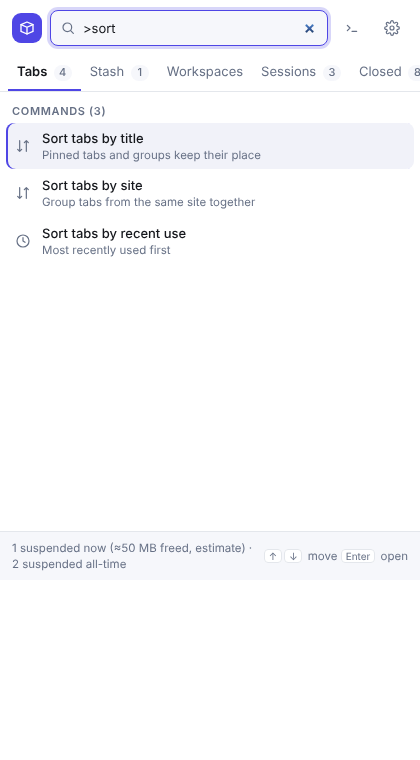
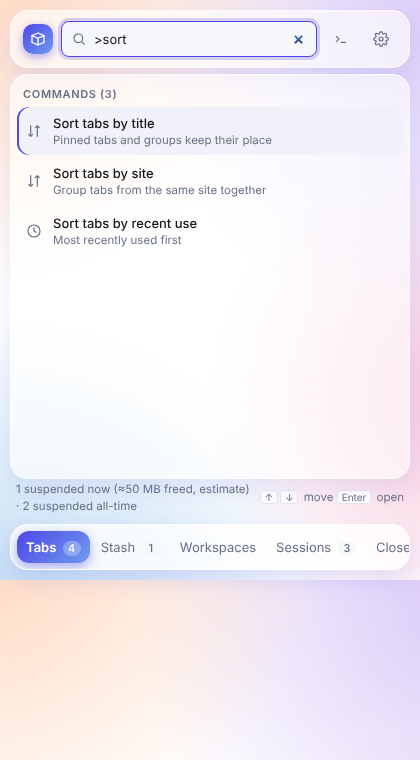
Restyle popup with a glass-morphism aurora theme
Frosted-glass panels, gradient accents, a bottom-anchored view nav and
entrance/hover motion, layered on the existing DOM and tokens (both
themes, reduced-motion respected). Screenshots refreshed to match.

Changed region(s): [[0.0, 0.0, 1.0, 1.0]]

diff --git a/src/entrypoints/popup/style.css b/src/entrypoints/popup/style.css
@@ -1,59 +1,114 @@
 :root {
   --bg: #ffffff; --surface: #f6f7fb; --fg: #16181d; --muted: #667085; --line: #e4e7ec;
-  --accent: #4f46e5; --accent-fg: #ffffff; --accent-soft: #eef0ff; --hover: #f1f2f9; --danger: #c62828; --ok: #188038;
-  --radius: 8px;
+  --accent: #4f46e5; --accent-2: #6d9bf0; --accent-fg: #ffffff; --accent-soft: #eef0ff; --hover: #f1f2f9; --danger: #c62828; --ok: #188038;
+  --radius: 8px; --radius-lg: 18px;
+  --glass: rgba(255, 255, 255, .62); --glass-strong: rgba(255, 255, 255, .78); --glass-border: rgba(255, 255, 255, .7);
+  --blob1: #ffd4b8; --blob2: #d8c8f7; --blob3: #b9d8f2; --blob4: #f7c6d9;
+  --ease: cubic-bezier(.22, 1, .36, 1);
 }
 @media (prefers-color-scheme: dark) {
   :root:not([data-theme='light']) {
     --bg: #15161a; --surface: #1d1e24; --fg: #ececf1; --muted: #9aa1b0; --line: #2b2d35;
-    --accent: #8b95ff; --accent-fg: #15161a; --accent-soft: #24264a; --hover: #22232b; --danger: #f87171; --ok: #6dd58c;
+    --accent: #8b95ff; --accent-2: #7aa7ff; --accent-fg: #15161a; --accent-soft: #24264a; --hover: #22232b; --danger: #f87171; --ok: #6dd58c;
+    --glass: rgba(32, 34, 44, .58); --glass-strong: rgba(32, 34, 44, .76); --glass-border: rgba(255, 255, 255, .08);
+    --blob1: #4a3626; --blob2: #342a4d; --blob3: #1f3b4a; --blob4: #432639;
   }
 }
 :root[data-theme='dark'] {
   --bg: #15161a; --surface: #1d1e24; --fg: #ececf1; --muted: #9aa1b0; --line: #2b2d35;
-  --accent: #8b95ff; --accent-fg: #15161a; --accent-soft: #24264a; --hover: #22232b; --danger: #f87171; --ok: #6dd58c;
+  --accent: #8b95ff; --accent-2: #7aa7ff; --accent-fg: #15161a; --accent-soft: #24264a; --hover: #22232b; --danger: #f87171; --ok: #6dd58c;
+  --glass: rgba(32, 34, 44, .58); --glass-strong: rgba(32, 34, 44, .76); --glass-border: rgba(255, 255, 255, .08);
+  --blob1: #4a3626; --blob2: #342a4d; --blob3: #1f3b4a; --blob4: #432639;
 }
 * { box-sizing: border-box; }
 html { color-scheme: light dark; }
 html[data-theme='light'] { color-scheme: light; }
 html[data-theme='dark'] { color-scheme: dark; }
+@media (prefers-reduced-motion: reduce) {
+  *, *::before, *::after { animation-duration: .001ms !important; animation-iteration-count: 1 !important; transition-duration: .001ms !important; scroll-behavior: auto !important; }
+}
+
+@keyframes rise { from { opacity: 0; transform: translateY(6px); } to { opacity: 1; transform: translateY(0); } }
+@keyframes popIn { from { opacity: 0; transform: scale(.94) translateY(4px); } to { opacity: 1; transform: scale(1) translateY(0); } }
+@keyframes toastIn { from { opacity: 0; transform: translateY(8px) scale(.98); } to { opacity: 1; transform: translateY(0) scale(1); } }
+@keyframes overlayIn { from { opacity: 0; } to { opacity: 1; } }
+@keyframes dialogIn { from { opacity: 0; transform: scale(.92) translateY(10px); } to { opacity: 1; transform: scale(1) translateY(0); } }
+@keyframes pulseGlow { 0%, 100% { box-shadow: 0 2px 10px color-mix(in srgb, var(--accent) 35%, transparent); } 50% { box-shadow: 0 2px 18px color-mix(in srgb, var(--accent) 55%, transparent); } }
+
 /* Chrome sizes a popup to its content, capped at 800x600. A fixed box keeps it from jumping between views. */
 body {
   margin: 0; width: 420px; height: 580px; font: 13px/1.4 system-ui, -apple-system, 'Segoe UI', sans-serif;
-  background: var(--bg); color: var(--fg); display: flex; flex-direction: column; overflow: hidden;
+  background-color: var(--bg);
+  background-image:
+    radial-gradient(circle at -8% -12%, var(--blob1), transparent 46%),
+    radial-gradient(circle at 112% 2%, var(--blob2), transparent 46%),
+    radial-gradient(circle at 2% 112%, var(--blob3), transparent 44%),
+    radial-gradient(circle at 110% 68%, var(--blob4), transparent 42%);
+  color: var(--fg); display: flex; flex-direction: column; overflow: hidden;
 }
 input, button, select { font: inherit; color: inherit; }
-:focus-visible { outline: 2px solid var(--accent); outline-offset: 1px; }
+:focus-visible { outline: 2px solid var(--accent); outline-offset: 1px; border-radius: 4px; }
 svg { width: 16px; height: 16px; fill: none; stroke: currentColor; stroke-width: 1.8; stroke-linecap: round; stroke-linejoin: round; flex: none; }
 
-header { display: flex; align-items: center; gap: 8px; padding: 10px 12px 8px; }
-.brand { display: grid; place-items: center; width: 30px; height: 30px; flex: none; border-radius: 9px; background: var(--accent); color: var(--accent-fg); }
+header {
+  order: 0; display: flex; align-items: center; gap: 8px; margin: 10px 10px 6px; padding: 10px 12px;
+  background: var(--glass); backdrop-filter: blur(20px) saturate(1.4); -webkit-backdrop-filter: blur(20px) saturate(1.4);
+  border: 1px solid var(--glass-border); border-radius: var(--radius-lg);
+  box-shadow: 0 10px 26px color-mix(in srgb, var(--accent) 13%, transparent);
+  animation: rise .32s var(--ease) both;
+}
+.brand {
+  display: grid; place-items: center; width: 30px; height: 30px; flex: none; border-radius: 10px;
+  background: linear-gradient(135deg, var(--accent), var(--accent-2)); color: var(--accent-fg);
+  box-shadow: 0 3px 10px color-mix(in srgb, var(--accent) 45%, transparent);
+  transition: transform .2s var(--ease);
+}
+header:hover .brand { transform: rotate(-6deg) scale(1.05); }
 .brand svg { width: 18px; height: 18px; }
 .search { position: relative; flex: 1; }
 .search-icon { position: absolute; left: 10px; top: 50%; transform: translateY(-50%); color: var(--muted); display: flex; pointer-events: none; }
 input[type='search'], input[type='text'], input[type='number'], textarea {
   width: 100%; padding: 8px 10px; border: 1px solid var(--line); border-radius: var(--radius); background: var(--surface);
+  transition: border-color .15s var(--ease), box-shadow .15s var(--ease);
 }
 .search input { padding-left: 32px; }
 input[type='search']:focus { border-color: var(--accent); outline: none; box-shadow: 0 0 0 3px color-mix(in srgb, var(--accent) 22%, transparent); }
 
-button { padding: 6px 10px; border: 1px solid var(--line); border-radius: var(--radius); background: transparent; cursor: pointer; transition: background .12s, border-color .12s; }
-button:hover { border-color: var(--accent); background: var(--hover); }
+button { padding: 6px 10px; border: 1px solid var(--line); border-radius: var(--radius); background: transparent; cursor: pointer; transition: background .15s var(--ease), border-color .15s var(--ease), transform .15s var(--ease), box-shadow .15s var(--ease), color .15s var(--ease); }
+button:hover { border-color: var(--accent); background: var(--hover); transform: translateY(-1px); }
+button:active { transform: translateY(0); }
 button.icon { width: 32px; height: 32px; padding: 0; flex: none; display: grid; place-items: center; border-color: transparent; color: var(--muted); }
 button.icon:hover { color: var(--fg); border-color: var(--line); }
-button.primary { background: var(--accent); color: var(--accent-fg); border-color: var(--accent); font-weight: 600; }
-button.primary:hover { background: var(--accent); filter: brightness(1.08); }
+button.primary { background: linear-gradient(135deg, var(--accent), var(--accent-2)); color: var(--accent-fg); border-color: transparent; font-weight: 600; box-shadow: 0 4px 14px color-mix(in srgb, var(--accent) 38%, transparent); }
+button.primary:hover { filter: brightness(1.06); box-shadow: 0 6px 18px color-mix(in srgb, var(--accent) 48%, transparent); }
 button.danger:hover { border-color: var(--danger); color: var(--danger); }
 
-nav { display: flex; padding: 0 8px; border-bottom: 1px solid var(--line); overflow-x: auto; scrollbar-width: none; }
+nav {
+  order: 4; display: flex; margin: 6px 10px 10px; padding: 6px; gap: 2px; overflow-x: auto; scrollbar-width: none;
+  background: var(--glass-strong); backdrop-filter: blur(20px) saturate(1.4); -webkit-backdrop-filter: blur(20px) saturate(1.4);
+  border: 1px solid var(--glass-border); border-radius: var(--radius-lg);
+  box-shadow: 0 10px 24px color-mix(in srgb, var(--accent) 14%, transparent);
+  animation: rise .34s var(--ease) both;
+}
 nav::-webkit-scrollbar { display: none; }
-nav button { flex: 1 0 auto; white-space: nowrap; border: 0; border-bottom: 2px solid transparent; border-radius: 0; color: var(--muted); padding: 8px 9px; background: none; }
-nav button:hover { color: var(--fg); background: none; }
-nav button[aria-selected='true'] { color: var(--fg); border-bottom-color: var(--accent); font-weight: 600; }
-.count { display: inline-block; min-width: 18px; padding: 0 5px; margin-left: 3px; border-radius: 9px; background: var(--surface); color: var(--muted); font-size: 11px; font-weight: 500; text-align: center; }
+nav button { flex: 1 0 auto; white-space: nowrap; border: 0; border-radius: 12px; color: var(--muted); padding: 7px 9px; background: none; }
+nav button:hover { color: var(--fg); background: var(--hover); transform: none; }
+nav button[aria-selected='true'] {
+  color: var(--accent-fg); background: linear-gradient(135deg, var(--accent), var(--accent-2));
+  font-weight: 600; box-shadow: 0 4px 12px color-mix(in srgb, var(--accent) 45%, transparent);
+}
+nav button[aria-selected='true']:hover { color: var(--accent-fg); background: linear-gradient(135deg, var(--accent), var(--accent-2)); }
+.count { display: inline-block; min-width: 18px; padding: 0 5px; margin-left: 3px; border-radius: 9px; background: var(--surface); color: var(--muted); font-size: 11px; font-weight: 500; text-align: center; transition: background .15s, color .15s; }
+nav button[aria-selected='true'] .count { background: rgba(255, 255, 255, .28); color: inherit; }
 .count:empty { display: none; }
 
-main { flex: 1; overflow-y: auto; padding-bottom: 8px; scrollbar-width: thin; }
+main {
+  order: 1; flex: 1; overflow-y: auto; margin: 0 10px; padding-bottom: 8px; scrollbar-width: thin;
+  background: var(--glass); backdrop-filter: blur(18px) saturate(1.3); -webkit-backdrop-filter: blur(18px) saturate(1.3);
+  border: 1px solid var(--glass-border); border-radius: var(--radius-lg);
+  box-shadow: 0 10px 26px color-mix(in srgb, var(--accent) 10%, transparent);
+  animation: rise .26s var(--ease) both;
+}
 .toolbar { display: grid; grid-template-columns: repeat(2, 1fr); gap: 6px; padding: 10px 12px 4px; }
 .toolbar button { display: flex; align-items: center; justify-content: center; gap: 6px; padding: 6px 8px; white-space: nowrap; background: var(--surface); }
 .toolbar button:hover { background: var(--hover); }
@@ -61,13 +116,24 @@ main { flex: 1; overflow-y: auto; padding-bottom: 8px; scrollbar-width: thin; }
 
 .filters { display: flex; flex-wrap: wrap; gap: 6px; padding: 8px 12px 0; }
 .filters button { padding: 2px 10px; border-radius: 999px; font-size: 12px; color: var(--muted); }
-.filters button[aria-pressed='true'] { background: var(--accent-soft); border-color: var(--accent); color: var(--accent); font-weight: 600; }
+.filters button[aria-pressed='true'] {
+  background: linear-gradient(135deg, var(--accent), var(--accent-2)); border-color: transparent; color: var(--accent-fg); font-weight: 600;
+  box-shadow: 0 3px 10px color-mix(in srgb, var(--accent) 35%, transparent);
+}
 
 h2 { margin: 12px 12px 4px; font-size: 11px; font-weight: 600; text-transform: uppercase; letter-spacing: .06em; color: var(--muted); }
 ul { list-style: none; margin: 0; padding: 0 6px; }
-li { position: relative; display: flex; align-items: center; gap: 10px; padding: 6px 8px; margin: 1px 0; border-radius: var(--radius); cursor: pointer; }
-li:hover, li[aria-selected='true'] { background: var(--hover); }
-li[aria-selected='true'] { box-shadow: inset 2px 0 0 var(--accent); }
+li {
+  position: relative; display: flex; align-items: center; gap: 10px; padding: 7px 8px; margin: 2px 0; border-radius: 12px; cursor: pointer;
+  transition: background .15s var(--ease), transform .15s var(--ease), box-shadow .15s var(--ease);
+  animation: rise .22s var(--ease) both;
+}
+li:nth-child(1) { animation-delay: 0ms; } li:nth-child(2) { animation-delay: 20ms; } li:nth-child(3) { animation-delay: 40ms; }
+li:nth-child(4) { animation-delay: 60ms; } li:nth-child(5) { animation-delay: 80ms; } li:nth-child(6) { animation-delay: 100ms; }
+li:nth-child(7) { animation-delay: 120ms; } li:nth-child(8) { animation-delay: 140ms; } li:nth-child(9) { animation-delay: 160ms; }
+li:nth-child(n+10) { animation-delay: 180ms; }
+li:hover { background: var(--hover); transform: translateX(2px); }
+li[aria-selected='true'] { background: var(--hover); box-shadow: inset 2px 0 0 var(--accent); }
 li .fav { width: 18px; height: 18px; flex: none; display: grid; place-items: center; color: var(--muted); }
 li .fav img { width: 16px; height: 16px; border-radius: 3px; }
 li .t { flex: 1; min-width: 0; }
@@ -75,30 +141,35 @@ li .t b, li .t small { display: block; overflow: hidden; text-overflow: ellipsis
 li .t b { font-weight: 550; }
 li small { color: var(--muted); font-size: 11.5px; }
 li.discarded .t b, li.discarded .fav { opacity: .55; }
-.pill { font-size: 10px; line-height: 16px; padding: 0 7px; border-radius: 999px; flex: none; background: var(--surface); color: var(--muted); border: 1px solid var(--line); }
-.pill.accent { background: var(--accent-soft); color: var(--accent); border-color: transparent; }
-.pill.ok { color: var(--ok); }
-.pill.warn { color: var(--danger); }
+.pill { font-size: 10px; line-height: 16px; padding: 0 7px; border-radius: 999px; flex: none; background: var(--surface); color: var(--muted); border: 1px solid var(--line); transition: transform .15s var(--ease); }
+.pill.accent { background: color-mix(in srgb, var(--accent) 16%, transparent); color: var(--accent); border-color: transparent; }
+.pill.ok { color: var(--ok); background: color-mix(in srgb, var(--ok) 16%, transparent); border-color: transparent; animation: pulseGlow 2.2s ease-in-out infinite; }
+.pill.warn { color: var(--danger); background: color-mix(in srgb, var(--danger) 14%, transparent); border-color: transparent; }
 li .chip { font-size: 10px; line-height: 16px; padding: 0 7px; border-radius: 999px; color: #fff; flex: none; max-width: 84px; overflow: hidden; text-overflow: ellipsis; white-space: nowrap; }
 
 /* Per-row actions appear on hover / keyboard focus so the list stays calm. */
-.actions { display: none; gap: 2px; position: absolute; right: 4px; top: 50%; transform: translateY(-50%); padding: 2px 2px 2px 14px; background: linear-gradient(90deg, transparent, var(--hover) 14px); }
+.actions { display: none; gap: 2px; position: absolute; right: 4px; top: 50%; transform: translateY(-50%); padding: 2px 2px 2px 14px; background: linear-gradient(90deg, transparent, var(--hover) 14px); animation: popIn .15s var(--ease) both; }
 li:hover .actions, li:focus-within .actions, li[aria-selected='true'] .actions { display: flex; }
 .meta { display: flex; align-items: center; gap: 4px; flex: none; }
 .actions button { width: 26px; height: 26px; padding: 0; display: grid; place-items: center; border-color: transparent; color: var(--muted); }
-.actions button:hover { color: var(--fg); border-color: var(--line); background: var(--bg); }
+.actions button:hover { color: var(--fg); border-color: var(--line); background: var(--bg); transform: translateY(-1px) scale(1.06); }
 .actions button.danger:hover { color: var(--danger); border-color: var(--danger); }
 .actions button[aria-pressed='true'] { color: var(--accent); }
 
-.empty { padding: 28px 16px; color: var(--muted); text-align: center; }
+.empty { padding: 28px 16px; color: var(--muted); text-align: center; animation: rise .3s var(--ease) both; }
 .empty svg { width: 28px; height: 28px; display: block; margin: 0 auto 8px; opacity: .6; }
 .row { display: flex; gap: 6px; padding: 10px 12px 2px; }
 .row button { flex: none; }
 
-#toast { margin: 0 12px 6px; padding: 7px 10px; font-size: 12px; background: var(--accent-soft); color: var(--fg); border-radius: var(--radius); }
-#toast:empty { display: none; }
+#toast {
+  order: 2; margin: 0 10px 6px; padding: 8px 12px; font-size: 12px; color: var(--fg); border-radius: var(--radius-lg);
+  background: var(--glass-strong); backdrop-filter: blur(16px) saturate(1.3); -webkit-backdrop-filter: blur(16px) saturate(1.3);
+  border: 1px solid var(--glass-border); box-shadow: 0 8px 20px color-mix(in srgb, var(--accent) 16%, transparent);
+  animation: toastIn .22s var(--ease) both;
+}
+#toast:empty { display: none; animation: none; }
 
-footer { display: flex; align-items: center; justify-content: space-between; gap: 8px; padding: 8px 12px; border-top: 1px solid var(--line); background: var(--surface); color: var(--muted); font-size: 11.5px; }
+footer { order: 3; display: flex; align-items: center; justify-content: space-between; gap: 8px; padding: 2px 16px 4px; color: var(--muted); font-size: 11.5px; }
 #stats { min-width: 0; }
 .hint { flex: none; white-space: nowrap; }
 kbd { font: inherit; font-size: 10px; padding: 0 4px; margin-right: 2px; border: 1px solid var(--line); border-radius: 4px; background: var(--bg); }
@@ -108,8 +179,13 @@ kbd { font: inherit; font-size: 10px; padding: 0 4px; margin-right: 2px; border:
 .hint-line { margin: 8px 12px 0; font-size: 11.5px; color: var(--muted); }
 
 /* ---- multi-select ---- */
-li.picked { background: var(--accent-soft); box-shadow: inset 3px 0 0 var(--accent); }
-.bulk { display: flex; flex-wrap: wrap; align-items: center; gap: 6px; margin: 8px 12px 0; padding: 6px 8px; border: 1px solid var(--accent); border-radius: var(--radius); background: var(--accent-soft); }
+li.picked { background: color-mix(in srgb, var(--accent) 14%, transparent); box-shadow: inset 3px 0 0 var(--accent); }
+.bulk {
+  display: flex; flex-wrap: wrap; align-items: center; gap: 6px; margin: 8px 12px 0; padding: 7px 9px; border-radius: 14px;
+  background: linear-gradient(135deg, color-mix(in srgb, var(--accent) 16%, var(--glass)), color-mix(in srgb, var(--accent-2) 16%, var(--glass)));
+  border: 1px solid color-mix(in srgb, var(--accent) 40%, transparent); box-shadow: 0 6px 16px color-mix(in srgb, var(--accent) 20%, transparent);
+  animation: rise .2s var(--ease) both;
+}
 .bulk > span { font-weight: 600; margin-right: auto; }
 .bulk button { display: flex; align-items: center; gap: 5px; padding: 3px 8px; background: var(--bg); }
 .bulk button[aria-label] { padding: 3px 6px; }
@@ -117,12 +193,22 @@ li.picked { background: var(--accent-soft); box-shadow: inset 3px 0 0 var(--acce
 .pill.tag { background: transparent; color: var(--accent); border-color: var(--accent); }
 
 /* ---- menu and dialog ---- */
-.menu { position: fixed; z-index: 20; min-width: 200px; max-width: 320px; padding: 4px; border: 1px solid var(--line); border-radius: 10px; background: var(--bg); box-shadow: 0 8px 28px rgba(0, 0, 0, .22); }
-.menu button { display: flex; align-items: center; gap: 8px; width: 100%; padding: 7px 10px; border: 0; border-radius: 6px; text-align: left; white-space: nowrap; overflow: hidden; text-overflow: ellipsis; }
-.menu button:hover, .menu button:focus-visible { background: var(--hover); }
+.menu {
+  position: fixed; z-index: 20; min-width: 200px; max-width: 320px; padding: 4px; border-radius: 12px;
+  background: var(--glass-strong); backdrop-filter: blur(22px) saturate(1.4); -webkit-backdrop-filter: blur(22px) saturate(1.4);
+  border: 1px solid var(--glass-border); box-shadow: 0 14px 36px rgba(0, 0, 0, .22);
+  animation: popIn .16s var(--ease) both;
+}
+.menu button { display: flex; align-items: center; gap: 8px; width: 100%; padding: 7px 10px; border: 0; border-radius: 8px; text-align: left; white-space: nowrap; overflow: hidden; text-overflow: ellipsis; }
+.menu button:hover, .menu button:focus-visible { background: var(--hover); transform: none; }
 .menu button.danger { color: var(--danger); }
-.overlay { position: fixed; inset: 0; z-index: 30; display: grid; place-items: center; background: rgba(0, 0, 0, .35); }
-.dialog { width: 340px; max-width: calc(100vw - 24px); padding: 14px; border: 1px solid var(--line); border-radius: 12px; background: var(--bg); box-shadow: 0 12px 36px rgba(0, 0, 0, .3); }
+.overlay { position: fixed; inset: 0; z-index: 30; display: grid; place-items: center; background: rgba(10, 10, 16, .4); backdrop-filter: blur(2px); animation: overlayIn .16s var(--ease) both; }
+.dialog {
+  width: 340px; max-width: calc(100vw - 24px); padding: 16px; border-radius: 18px;
+  background: var(--glass-strong); backdrop-filter: blur(24px) saturate(1.4); -webkit-backdrop-filter: blur(24px) saturate(1.4);
+  border: 1px solid var(--glass-border); box-shadow: 0 20px 50px rgba(0, 0, 0, .3);
+  animation: dialogIn .22s var(--ease) both;
+}
 .dialog h3 { margin: 0 0 10px; font-size: 14px; }
 .dialog label { display: block; margin: 8px 0 3px; font-size: 12px; color: var(--muted); }
 .dialog input, .dialog select { width: 100%; padding: 7px 9px; border: 1px solid var(--line); border-radius: var(--radius); background: var(--surface); }
@@ -130,14 +216,19 @@ li.picked { background: var(--accent-soft); box-shadow: inset 3px 0 0 var(--acce
 
 /* ---- insights ---- */
 .cards { display: grid; grid-template-columns: repeat(3, 1fr); gap: 8px; padding: 10px 12px 0; }
-.card { display: flex; flex-direction: column; padding: 8px 10px; border: 1px solid var(--line); border-radius: var(--radius); background: var(--surface); }
+.card {
+  display: flex; flex-direction: column; padding: 9px 11px; border-radius: 14px;
+  background: var(--glass); border: 1px solid var(--glass-border); box-shadow: 0 6px 16px color-mix(in srgb, var(--accent) 8%, transparent);
+  transition: transform .15s var(--ease); animation: rise .24s var(--ease) both;
+}
+.card:hover { transform: translateY(-2px); }
 .card b { font-size: 20px; line-height: 1.2; }
 .card span { font-size: 11.5px; color: var(--muted); }
 .bars { padding: 2px 12px; }
 .bar { display: grid; grid-template-columns: 120px 1fr 24px; align-items: center; gap: 8px; margin: 4px 0; font-size: 12px; }
 .bar-label { overflow: hidden; text-overflow: ellipsis; white-space: nowrap; }
-.bar-track { height: 8px; border-radius: 4px; background: var(--surface); overflow: hidden; }
-.bar-fill { display: block; height: 100%; border-radius: 4px; background: var(--accent); }
+.bar-track { height: 7px; border-radius: 4px; background: color-mix(in srgb, var(--fg) 8%, transparent); overflow: hidden; }
+.bar-fill { display: block; height: 100%; border-radius: 4px; background: linear-gradient(90deg, var(--accent), var(--accent-2)); transition: width .4s var(--ease); }
 .bar-n { text-align: right; color: var(--muted); }
 
 /* ---- help ---- */
